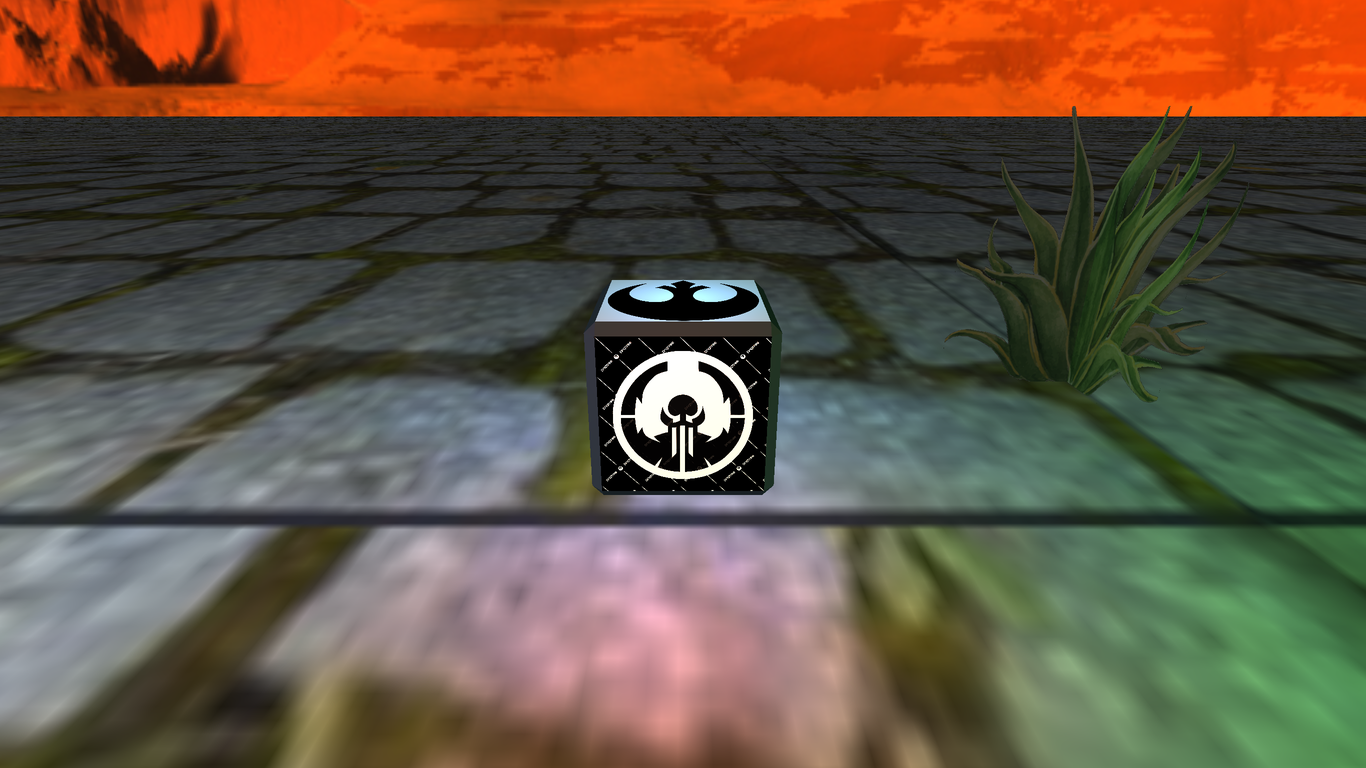
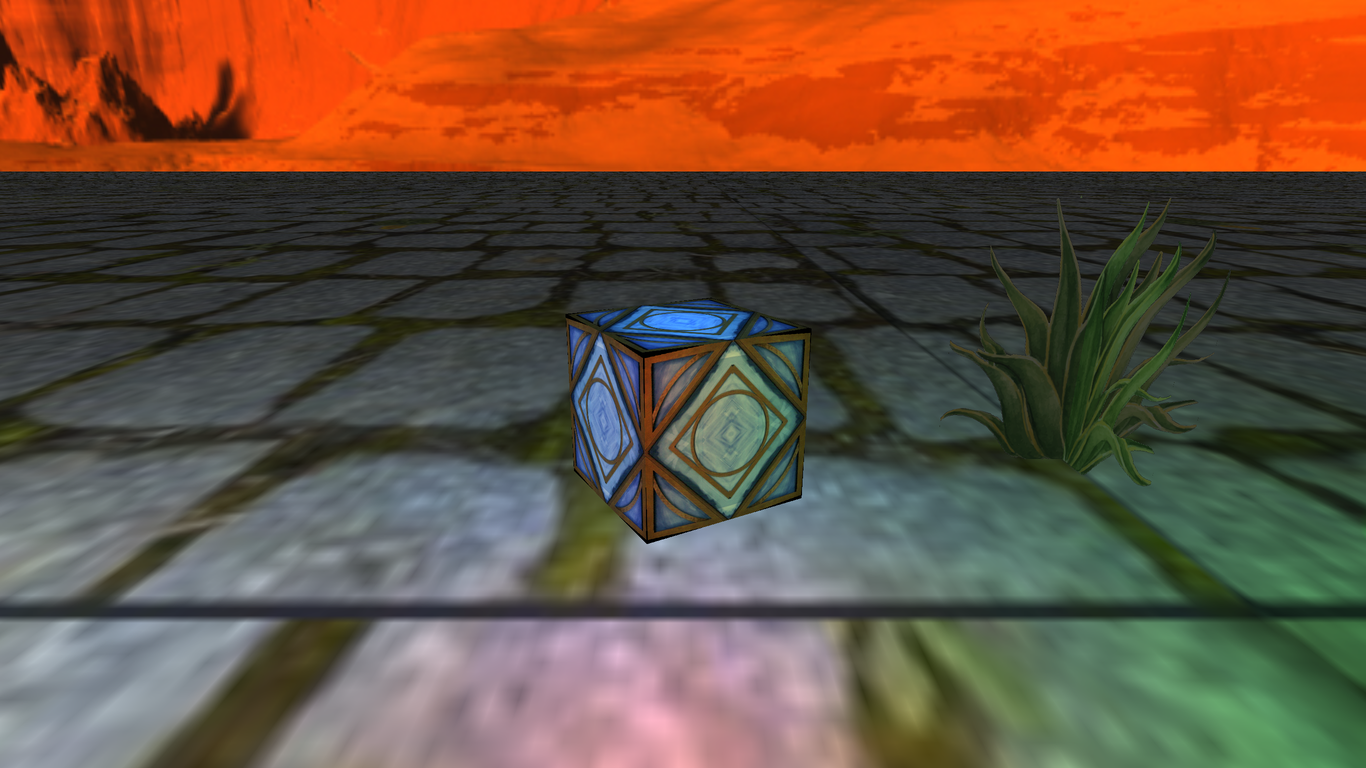
Practica 8: un solo dado y holocron Jedi optimizado, texturizado y en movimiento con su luz
Claude-Session: https://claude.ai/code/session_01WN2JLSSs9uYxjiXpMXK3Ue

diff --git a/practica8.cpp b/practica8.cpp
@@ -2,10 +2,13 @@
 Práctica 8: Iluminación 2
 Ricardo Emmanuel Galicia Tequianes - 118001740
 
-Se parte del código de la práctica 7 (rover, avión, holocrón, dado y lámpara con sus luces) y se agregó:
+Se parte del código de la práctica 7 (rover, avión, dado y lámpara con sus luces). En la escena quedan un solo
+dado (el de la práctica 6, por código) y el holocrón Jedi importado, que reemplaza a los dos holocrones anteriores.
+Se agregó:
 - C: la luz del avión que apunta hacia el suelo cambia de color en el orden
   rojo, amarillo, verde, cian, azul, magenta (y vuelve a rojo).
-- Luz puntual azul claro unida al holocrón importado; K la enciende o la apaga.
+- Holocrón Jedi optimizado (cubo de 24 vértices con una sola textura), gira y flota solo y se mueve con las flechas
+  izquierda / derecha; lleva unida una luz puntual azul claro que K enciende o apaga.
 - Luz puntual verde en el punto extremo de la pinza del rover; se mueve con el rover y P la enciende o la apaga.
 
 Controles:
@@ -13,6 +16,7 @@ Controles:
 	Y / U				rover hacia adelante / hacia atrás
 	Flecha arriba / abajo	el avión sube / baja
 	H / J				el avión avanza / retrocede
+	Flecha izq. / der.	el holocrón se mueve en X
 	C					siguiente color de la luz inferior del avión
 	K					enciende o apaga la luz del holocrón
 	P					enciende o apaga la luz de la pinza del rover
@@ -71,9 +75,8 @@ Texture dirtTexture;
 Texture plainTexture;
 Texture pisoTexture;
 Texture AgaveTexture;
-// Texturas del dado y del holocrón (práctica 6)
+// Textura del dado (práctica 6)
 Texture dadoTexture;		//una sola imagen con las 6 caras (3 columnas x 2 filas)
-Texture caraTexture[6];		//holocrón: una imagen por cara
 
 
 Model Blackhawk_M;
@@ -82,7 +85,7 @@ Model Cuerpo_M;
 Model Brazo_M;
 Model Pata_M[6];
 Model Llanta_M[6];
-//Modelos importados de la práctica 6
+//Holocrón Jedi importado (práctica 8) y avión de la práctica 6
 Model HolocronImportado_M;
 Model Avion_M;
 //Lámpara de calle
@@ -131,9 +134,8 @@ const glm::vec3 centroLlanta[6] = {
 const float ESCALA_ROVER = 0.4f;
 const float RADIO_LLANTA = 1.241f * ESCALA_ROVER;	//radio de la llanta en el OBJ por la escala del rover
 
-//Posiciones del dado y del holocrón por código (flotando, como en el código base, para poder verlos desde abajo)
+//Posición del dado por código (flotando, como en el código base, para poder verlo desde abajo)
 const glm::vec3 POS_DADO(-5.5f, 6.0f, 6.0f);
-const glm::vec3 POS_HOLOCRON(-11.5f, 6.0f, 6.0f);
 
 //Movimiento con teclado
 const float INICIO_ROVER_X = 1.0f;		//posición del rover en el código base
@@ -160,8 +162,14 @@ const int COLOR_INICIAL_AVION = 1;	//amarillo, el color que tenía en la prácti
 int colorLuzAvion = COLOR_INICIAL_AVION;
 bool luzHolocronEncendida = true;
 bool luzPinzaEncendida = true;
-//El holocrón importado es un cubo de lado 2 con centro en su origen
-const glm::vec3 POS_HOLOCRON_IMPORTADO(-6.0f, 0.0f, -1.5f);
+//Holocrón Jedi: cubo de lado 2 con centro en su origen. Las flechas izquierda / derecha lo mueven en X;
+//además gira sobre su eje Y y sube y baja un poco, como si flotara
+const glm::vec3 INICIO_HOLOCRON(-6.0f, 0.8f, -1.5f);
+const float VELOCIDAD_HOLOCRON = 0.08f;
+const float ALTURA_LUZ_HOLOCRON = 1.5f;	//la luz va arriba del centro, fuera del cubo
+float posHolocronX = INICIO_HOLOCRON.x;
+float anguloHolocron = 0.0f;			//grados, aumenta en cada cuadro
+glm::vec3 posHolocron = INICIO_HOLOCRON;
 //Punto extremo de la pinza en coordenadas del rover (sin escala). La pinza viene en Cuerpo.obj,
 //arriba del brazo; su vértice más alejado está en (2.38, 12.44, -0.94) y la luz se pone un poco afuera
 const glm::vec3 PUNTA_PINZA(2.45f, 12.55f, -0.95f);
@@ -349,43 +357,12 @@ void CrearDado() //dado de lado 2 centrado en el origen (24 vértices, 36 índic
 }
 
 
-void CrearHolocron() //holocrón de la práctica 6: seis caras independientes, cada una con su propia imagen
-{
-	const glm::vec3 caras[6][4] = {
-		{ {-1,-1, 1}, { 1,-1, 1}, { 1, 1, 1}, {-1, 1, 1} },	//frente (+Z)
-		{ { 1,-1,-1}, {-1,-1,-1}, {-1, 1,-1}, { 1, 1,-1} },	//fondo (-Z)
-		{ { 1,-1, 1}, { 1,-1,-1}, { 1, 1,-1}, { 1, 1, 1} },	//derecha (+X)
-		{ {-1,-1,-1}, {-1,-1, 1}, {-1, 1, 1}, {-1, 1,-1} },	//izquierda (-X)
-		{ {-1, 1, 1}, { 1, 1, 1}, { 1, 1,-1}, {-1, 1,-1} },	//superior (+Y)
-		{ {-1,-1,-1}, { 1,-1,-1}, { 1,-1, 1}, {-1,-1, 1} }	//inferior (-Y)
-	};
-	const glm::vec2 uv[4] = { {0.0f, 0.0f}, {1.0f, 0.0f}, {1.0f, 1.0f}, {0.0f, 1.0f} };
-	unsigned int indicesCara[] = { 0, 1, 2, 2, 3, 0 };
-
-	for (int c = 0; c < 6; c++)
-	{
-		//Los vértices de cada cara van en sentido antihorario vistos desde afuera, así que el
-		//producto cruz da la normal exterior; se usa su negativo (hacia el interior), igual que en el dado
-		glm::vec3 n = -glm::normalize(glm::cross(caras[c][1] - caras[c][0], caras[c][2] - caras[c][0]));
-		GLfloat verticesCara[32];
-		for (int j = 0; j < 4; j++)
-		{
-			GLfloat v[8] = { caras[c][j].x, caras[c][j].y, caras[c][j].z, uv[j].x, uv[j].y, n.x, n.y, n.z };
-			memcpy(&verticesCara[j * 8], v, sizeof(v));
-		}
-		MeshModel* cara = new MeshModel();
-		cara->CreateMeshModel(verticesCara, indicesCara, 32, 6);
-		meshListModel.push_back(cara);	//meshListModel[5] a meshListModel[10]
-	}
-}
-
-
 //------------------------------------------------------------------
 //Capturas para el reporte. Con --capturas lista.txt el programa recorre la lista dentro de
 //la misma ventana (una línea por captura: archivo.ppm y opciones) y luego sigue normal.
 //Opciones: --camara x y z yaw pitch, --rover x, --avion y, --linterna 0|1,
 //          --puntual con lin exp (luz roja), --spot con lin exp (luz verde fija),
-//          --color 0..5 (luz del avión), --holocron 0|1, --pinza 0|1
+//          --color 0..5 (luz del avión), --holocron 0|1, --pinza 0|1, --holocronx x, --holocronang grados
 //------------------------------------------------------------------
 struct Captura
 {
@@ -402,6 +379,8 @@ void RestaurarEscena()
 	posRoverX = INICIO_ROVER_X;
 	posAvionY = ALTURA_INICIAL_AVION;
 	posAvionZ = INICIO_AVION_Z;
+	posHolocronX = INICIO_HOLOCRON.x;
+	anguloHolocron = 0.0f;
 	linternaEncendida = true;
 	pointLights[0] = luzRojaInicial;
 	spotLights[1] = luzVerdeInicial;
@@ -423,6 +402,8 @@ void AplicarOpciones(const std::vector<std::string>& op)
 		else if (op[i] == "--rover" && i + 1 < op.size()) posRoverX = num(++i);
 		else if (op[i] == "--avion" && i + 1 < op.size()) posAvionY = num(++i);
 		else if (op[i] == "--avionz" && i + 1 < op.size()) posAvionZ = num(++i);
+		else if (op[i] == "--holocronx" && i + 1 < op.size()) posHolocronX = num(++i);
+		else if (op[i] == "--holocronang" && i + 1 < op.size()) anguloHolocron = num(++i);
 		else if (op[i] == "--linterna" && i + 1 < op.size()) linternaEncendida = num(++i) != 0.0f;
 		else if (op[i] == "--color" && i + 1 < op.size()) colorLuzAvion = (int)num(++i) % 6;
 		else if (op[i] == "--holocron" && i + 1 < op.size()) luzHolocronEncendida = num(++i) != 0.0f;
@@ -496,7 +477,6 @@ int main(int argc, char** argv)
 
 	CreateObjects();
 	CrearDado();
-	CrearHolocron();
 	CreateShaders();
 
 	camera = Camera(glm::vec3(0.0f, 6.0f, 24.0f), glm::vec3(0.0f, 1.0f, 0.0f), -90.0f, -12.0f, 0.3f, 0.5f);
@@ -513,13 +493,6 @@ int main(int argc, char** argv)
 	AgaveTexture.LoadTextureA();
 	dadoTexture = Texture("Textures/dado_starwars.png");
 	dadoTexture.LoadTextureA();
-	const char* archivosCaras[6] = { "Textures/cara_1.png", "Textures/cara_2.png", "Textures/cara_3.png",
-		"Textures/cara_4.png", "Textures/cara_5.png", "Textures/cara_6.png" };
-	for (int i = 0; i < 6; i++)
-	{
-		caraTexture[i] = Texture(archivosCaras[i]);
-		caraTexture[i].LoadTextureA();
-	}
 
 	Blackhawk_M = Model();
 	Blackhawk_M.LoadModel("Models/uh60.obj");
@@ -535,8 +508,8 @@ int main(int argc, char** argv)
 		Llanta_M[i].LoadModel(std::string("Models/Llanta_") + nombresPiezas[i] + ".obj");
 	}
 
-	//Holocrón importado y avión de la práctica 6
-	HolocronImportado_M.LoadModel("Models/holocron_modelado.obj");
+	//Holocrón Jedi: 24 vértices, 12 triángulos y una textura que se repite en las seis caras
+	HolocronImportado_M.LoadModel("Models/holocron_jedi.obj");
 	Avion_M.LoadModel("Models/avion_verde.obj");
 
 	Lampara_M.LoadModel("Models/lampara.obj");
@@ -581,11 +554,11 @@ int main(int argc, char** argv)
 		1.0f, 0.09f, 0.02f);
 	pointLightCount++;
 
-	//luz del holocrón importado: azul claro, justo encima de su cara superior.
+	//luz del holocrón: azul claro, justo encima de su cara superior; se mueve con el holocrón en cada cuadro.
 	//Dentro del cubo no iluminaría al holocrón, porque sus caras quedarían de espaldas a la luz
 	pointLights[2] = PointLight(0.3f, 0.6f, 1.0f,
 		0.0f, 1.0f,
-		POS_HOLOCRON_IMPORTADO.x, POS_HOLOCRON_IMPORTADO.y + 1.5f, POS_HOLOCRON_IMPORTADO.z,
+		INICIO_HOLOCRON.x, INICIO_HOLOCRON.y + ALTURA_LUZ_HOLOCRON, INICIO_HOLOCRON.z,
 		1.0f, 0.09f, 0.032f);
 	pointLightCount++;
 
@@ -712,6 +685,12 @@ int main(int argc, char** argv)
 			teclaKAnterior = keys[GLFW_KEY_K];
 			if (keys[GLFW_KEY_P] && !teclaPAnterior) luzPinzaEncendida = !luzPinzaEncendida;
 			teclaPAnterior = keys[GLFW_KEY_P];
+			//Holocrón: flecha izquierda / derecha lo mueven en X
+			if (keys[GLFW_KEY_LEFT]) posHolocronX -= VELOCIDAD_HOLOCRON * deltaTime;
+			if (keys[GLFW_KEY_RIGHT]) posHolocronX += VELOCIDAD_HOLOCRON * deltaTime;
+			posHolocronX = glm::clamp(posHolocronX, -14.0f, 10.0f);
+			//giro continuo sobre Y (en las capturas se deja fijo para que la vista no dependa del tiempo)
+			anguloHolocron = fmod(anguloHolocron + 0.5f * deltaTime, 360.0f);
 		}
 
 		// Clear the window
@@ -748,6 +727,10 @@ int main(int argc, char** argv)
 		spotLights[3].SetPos(posFaroRover);
 		glm::vec3 posLuzPinza = glm::vec3(baseRover * glm::vec4(PUNTA_PINZA, 1.0f));
 		pointLights[3].SetPos(posLuzPinza);
+
+		//Holocrón: posición del cuadro (X por teclado, Y flotando) y su luz encima
+		posHolocron = glm::vec3(posHolocronX, INICIO_HOLOCRON.y + (capturando ? 0.0f : 0.25f * sinf(now * 1.5f)), INICIO_HOLOCRON.z);
+		pointLights[2].SetPos(posHolocron + glm::vec3(0.0f, ALTURA_LUZ_HOLOCRON, 0.0f));
 
 		glm::mat4 baseAvion(1.0);
 		baseAvion = glm::translate(baseAvion, glm::vec3(13.0f, posAvionY, posAvionZ));
@@ -837,9 +820,10 @@ int main(int argc, char** argv)
 		Material_opaco.UseMaterial(uniformSpecularIntensity, uniformShininess);
 		Lampara_M.RenderModel(uniformColor);
 
-		//Holocrón importado de la práctica 6, junto a la luz puntual roja y con su luz azul claro
+		//Holocrón Jedi: se traslada a su posición del cuadro y gira sobre su eje Y
 		model = glm::mat4(1.0);
-		model = glm::translate(model, POS_HOLOCRON_IMPORTADO);
+		model = glm::translate(model, posHolocron);
+		model = glm::rotate(model, anguloHolocron * toRadians, glm::vec3(0.0f, 1.0f, 0.0f));
 		glUniformMatrix4fv(uniformModel, 1, GL_FALSE, glm::value_ptr(model));
 		Material_opaco.UseMaterial(uniformSpecularIntensity, uniformShininess);
 		HolocronImportado_M.RenderModel(uniformColor);
@@ -854,16 +838,6 @@ int main(int argc, char** argv)
 		dadoTexture.UseTexture();
 		meshListModel[4]->RenderMeshModel();
 
-		//Holocrón por código: cada cara con su textura
-		model = glm::mat4(1.0);
-		model = glm::translate(model, POS_HOLOCRON);
-		glUniformMatrix4fv(uniformModel, 1, GL_FALSE, glm::value_ptr(model));
-		Material_brillante.UseMaterial(uniformSpecularIntensity, uniformShininess);
-		for (int i = 0; i < 6; i++)
-		{
-			caraTexture[i].UseTexture();
-			meshListModel[5 + i]->RenderMeshModel();
-		}
 
 
 		//Agave ¿qué sucede si lo renderizan antes del helicóptero?

diff --git a/LEEME.md b/LEEME.md
@@ -17,6 +17,7 @@ Ricardo Emmanuel Galicia Tequianes - 118001740
 - Y / U: rover hacia adelante / hacia atrás (faro azul y giro de llantas)
 - Flecha arriba / abajo: el avión sube / baja con su luz inferior
 - H / J: el avión avanza / retrocede con su faro naranja
+- Flecha izquierda / derecha: mueve el holocrón Jedi (además gira y flota solo)
 - C: siguiente color de la luz inferior del avión (rojo, amarillo, verde, cian, azul, magenta)
 - K: enciende o apaga la luz azul claro del holocrón
 - P: enciende o apaga la luz verde de la pinza del rover
@@ -32,5 +33,7 @@ ventana, guarda cada vista como .ppm en la carpeta build (opciones nuevas: --col
 
 - Models/Pata_*.obj y Models/Llanta_*.obj: patas y llantas del rover separadas en Blender
   (script Models/separar_llantas_rover.py; archivo editable en ../Blender/rover_llantas_separadas.blend).
+- Models/holocron_jedi.obj: holocrón optimizado (24 vértices, 12 triángulos, una textura: Textures/holocron_jedi.png,
+  hecha de una foto con ../_trabajo/textura_holocron.py).
 - Models/lampara.obj: light-curved de Kenney, City Kit (Roads), licencia CC0.
 - Evidencias: capturas usadas en los documentos.
